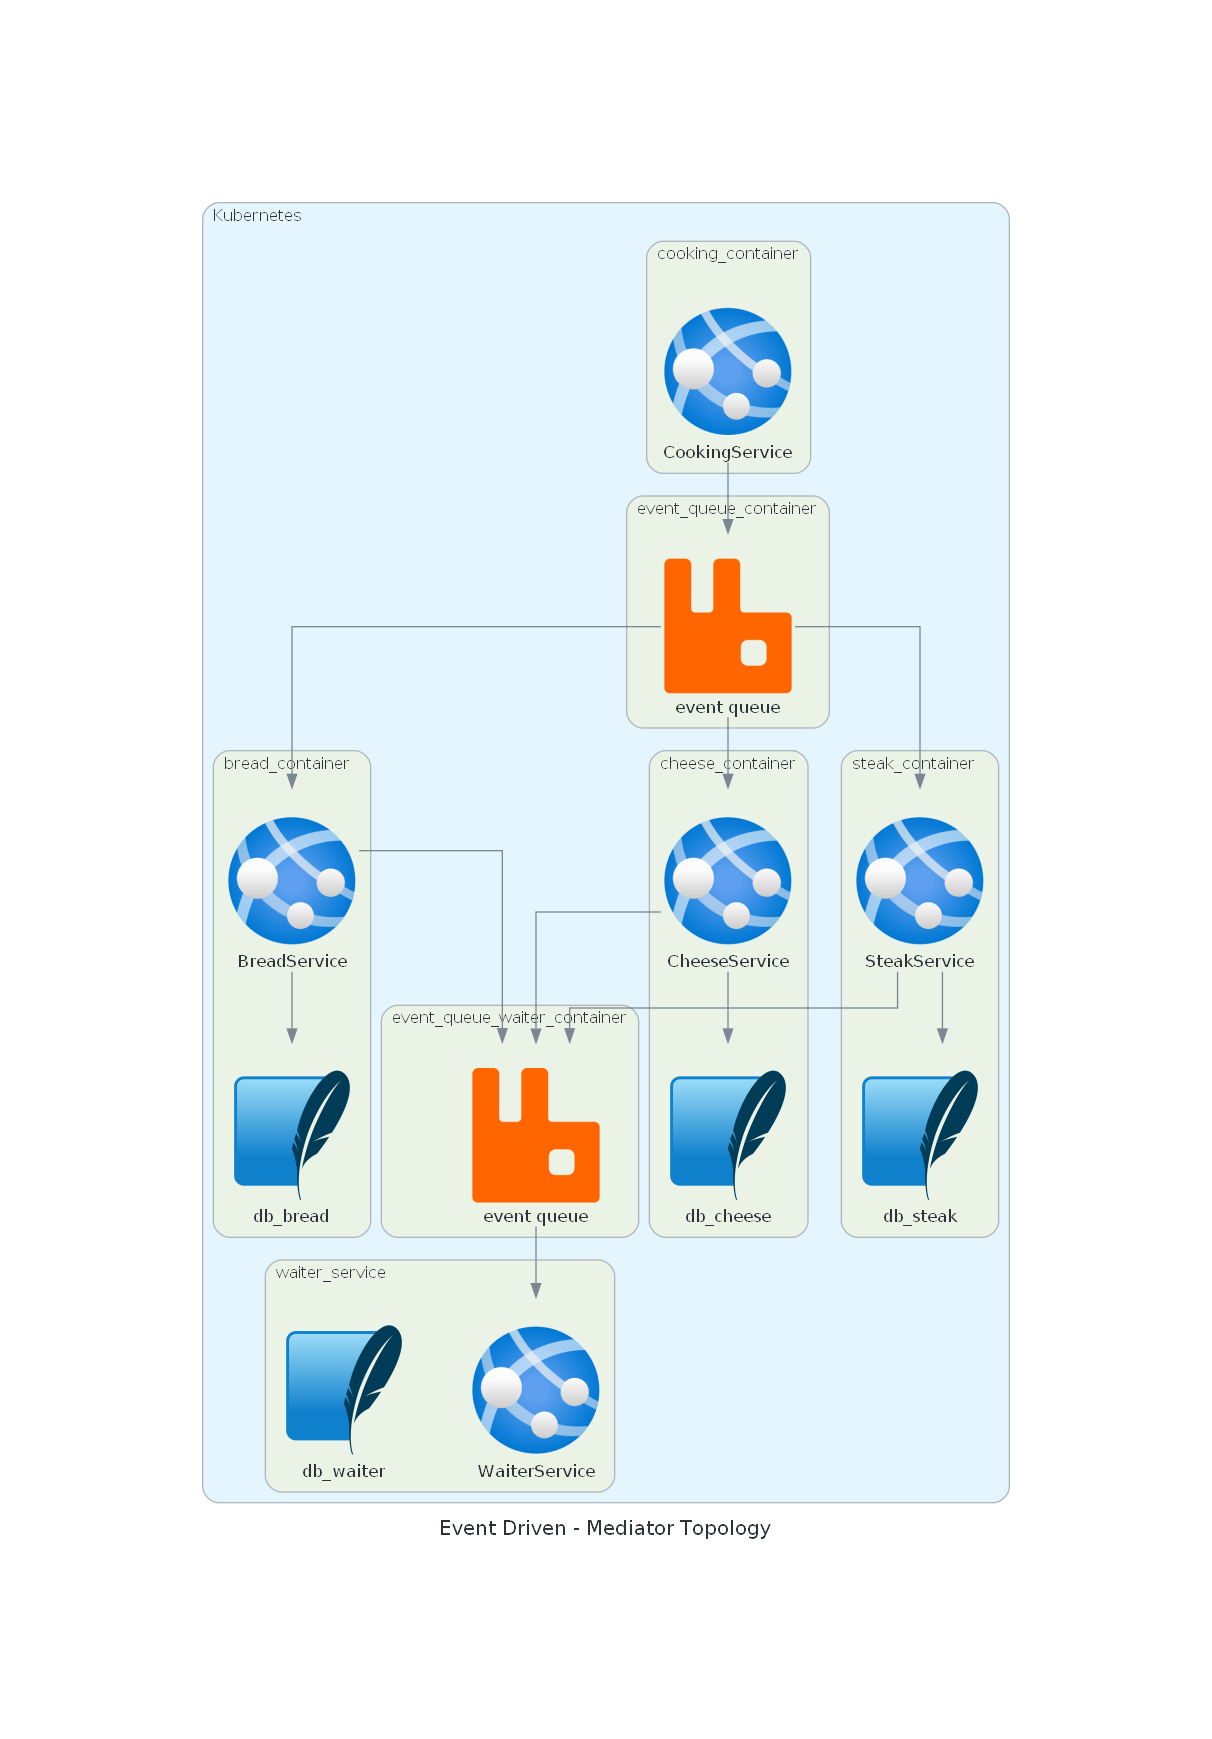
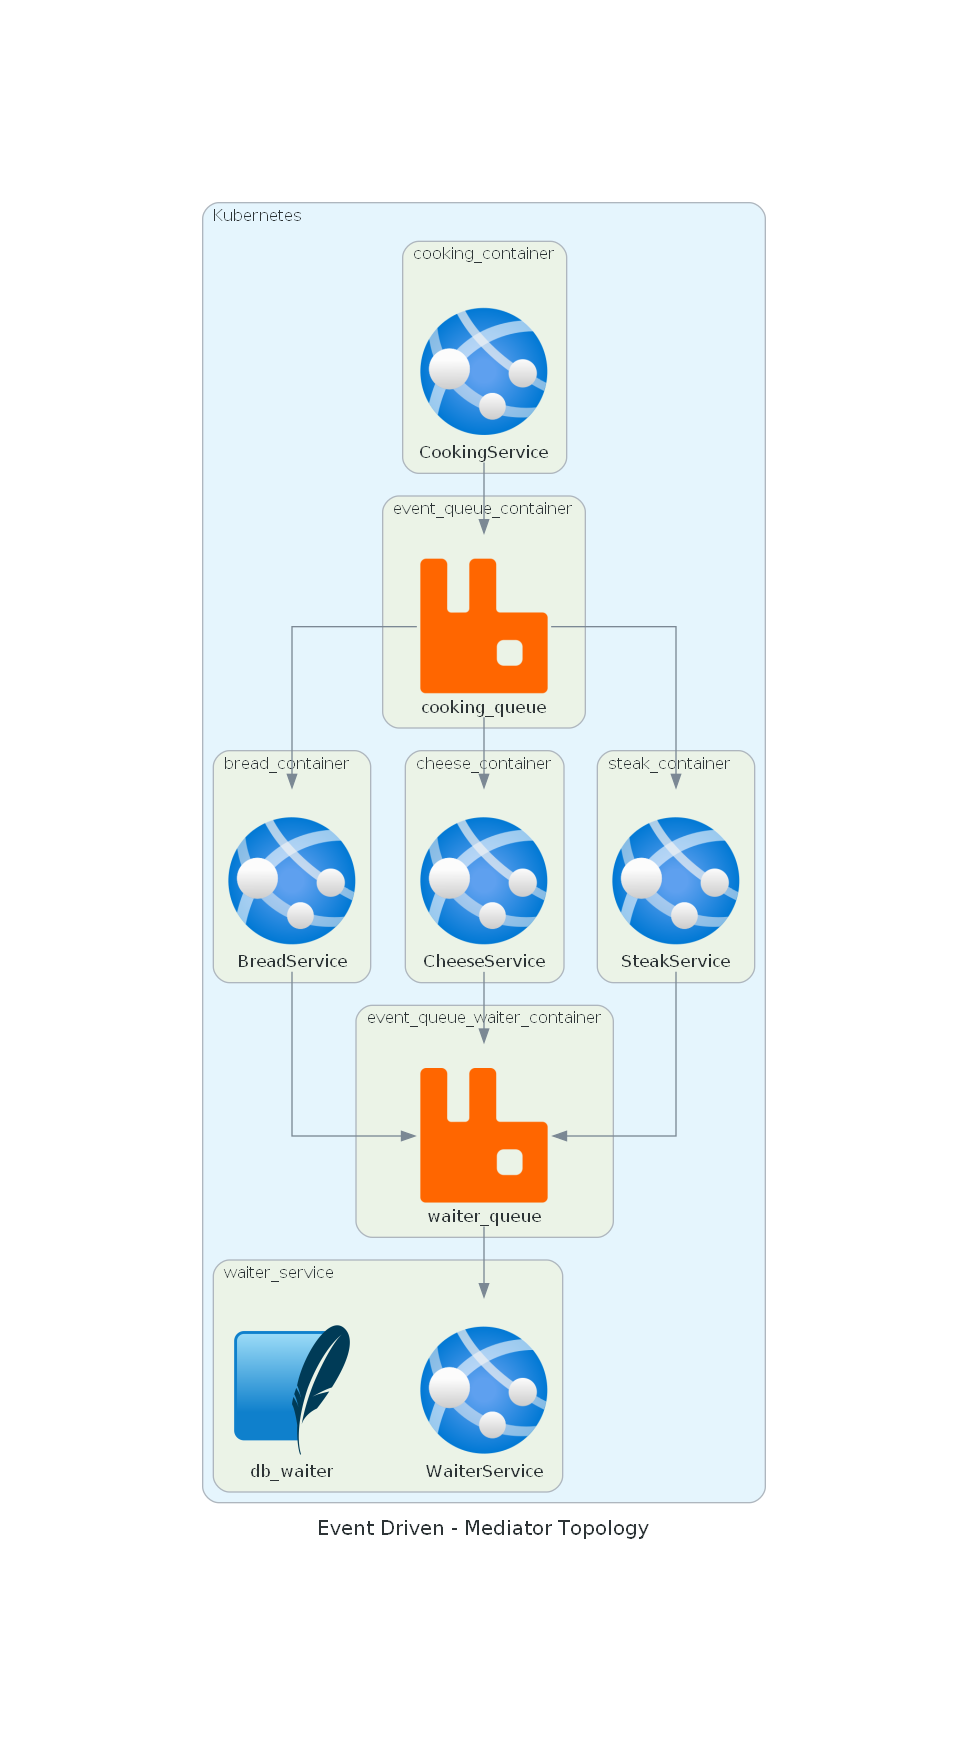
updating the big picture to last version

Changed region(s): [[0.155, 0.0932, 0.8368, 0.9005], [0.4029, 0.2795, 0.4339, 0.3105]]

diff --git a/docs/big_picture/big_picture_code_broker.py b/docs/big_picture/big_picture_code_broker.py
@@ -8,21 +8,25 @@ with Diagram("Event Driven - Broker Topology", show=False, filename="big_picture
         with Cluster("cooking_container"):
             cooking_service = AppServices("CookingService")
         with Cluster("event_queue_container"):
-            queue = RabbitMQ("event queue")
+            queue = RabbitMQ("bread queue")
         with Cluster("bread_container"):
             bread = AppServices("BreadService")
-            db_bread = Custom("db_bread", "../sql_lite.png")
+            #db_bread = Custom("db_bread", "../sql_lite.png")
+        with Cluster("event_queue_container"):
+            cheese_queue = RabbitMQ("cheese queue")
         with Cluster("cheese_container"):
             cheese = AppServices("CheeseService")
-            db_cheese = Custom("db_cheese", "../sql_lite.png")
+            #db_cheese = Custom("db_cheese", "../sql_lite.png")
+        with Cluster("event_queue_container"):
+            steak_queue = RabbitMQ("steak queue")
         with Cluster("steak_container"):
             steak = AppServices("SteakService")
-            db_steak = Custom("db_steak", "../sql_lite.png")
+            #db_steak = Custom("db_steak", "../sql_lite.png")
             
-    bread >> db_bread
-    cheese >> db_cheese
-    steak >> db_steak
+    #bread >> db_bread
+    #cheese >> db_cheese
+    #steak >> db_steak
 
     workers = [bread, cheese, steak]
     
-    cooking_service >> queue >> steak >> cheese >> bread
+    cooking_service >> queue >> bread >> cheese_queue >> cheese >> steak_queue >> steak

diff --git a/docs/big_picture/big_picture_code_mediator.py b/docs/big_picture/big_picture_code_mediator.py
@@ -8,25 +8,18 @@ with Diagram("Event Driven - Mediator Topology", show=False, filename="big_pictu
         with Cluster("cooking_container"):
             cooking_service = AppServices("CookingService")
         with Cluster("event_queue_container"):
-            queue = RabbitMQ("event queue")
+            queue = RabbitMQ("cooking_queue")
         with Cluster("bread_container"):
             bread = AppServices("BreadService")
-            db_bread = Custom("db_bread", "../sql_lite.png")
         with Cluster("cheese_container"):
             cheese = AppServices("CheeseService")
-            db_cheese = Custom("db_cheese", "../sql_lite.png")
         with Cluster("steak_container"):
             steak = AppServices("SteakService")
-            db_steak = Custom("db_steak", "../sql_lite.png")
         with Cluster("event_queue_waiter_container", direction="LR"):
-            waiter_queue = RabbitMQ("event queue")
+            waiter_queue = RabbitMQ("waiter_queue")
         with Cluster("waiter_service", direction="LR"):
             waiter = AppServices("WaiterService")
             db_waiter = Custom("db_waiter", "../sql_lite.png")
-            
-    bread >> db_bread
-    cheese >> db_cheese
-    steak >> db_steak
 
     workers = [bread, cheese, steak]
     
